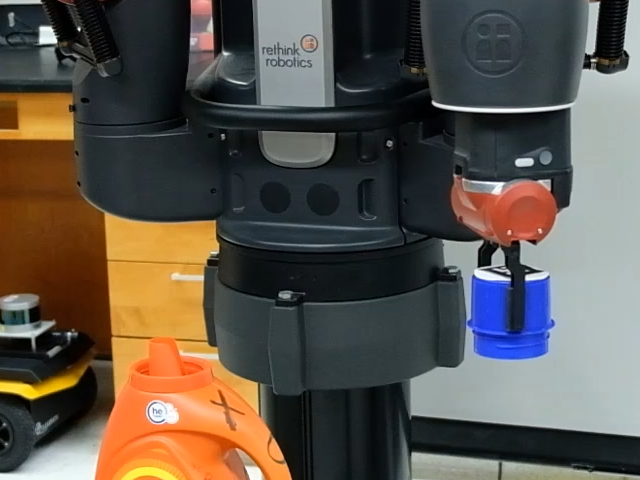
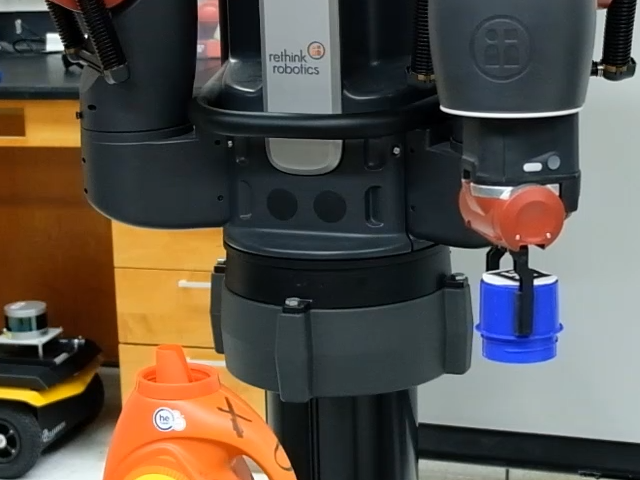
Changed out thumbnail for Baxter project before releasing. Now Baxter is released!

diff --git a/_projects/2017-12-17-container-manipulator-baxter.md b/_projects/2017-12-17-container-manipulator-baxter.md
@@ -8,7 +8,7 @@ tags:               [ROS, Python, Baxter, Object Manipulation]
 folders:
   images:           "baxter-container"                      # This path is project-dependent; don't forget to change it!
 
-published:          false
+published:          true
 ---
 
 
